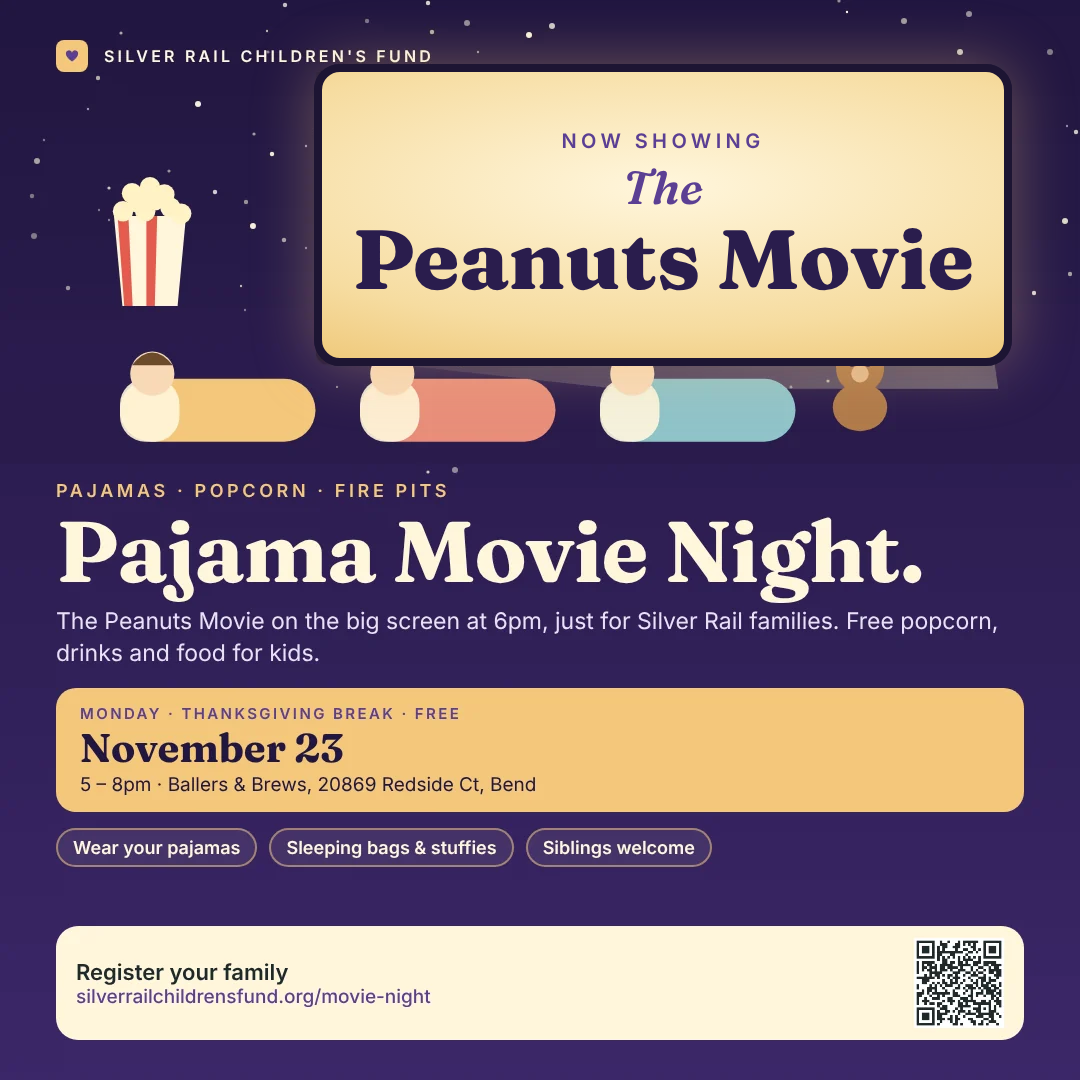
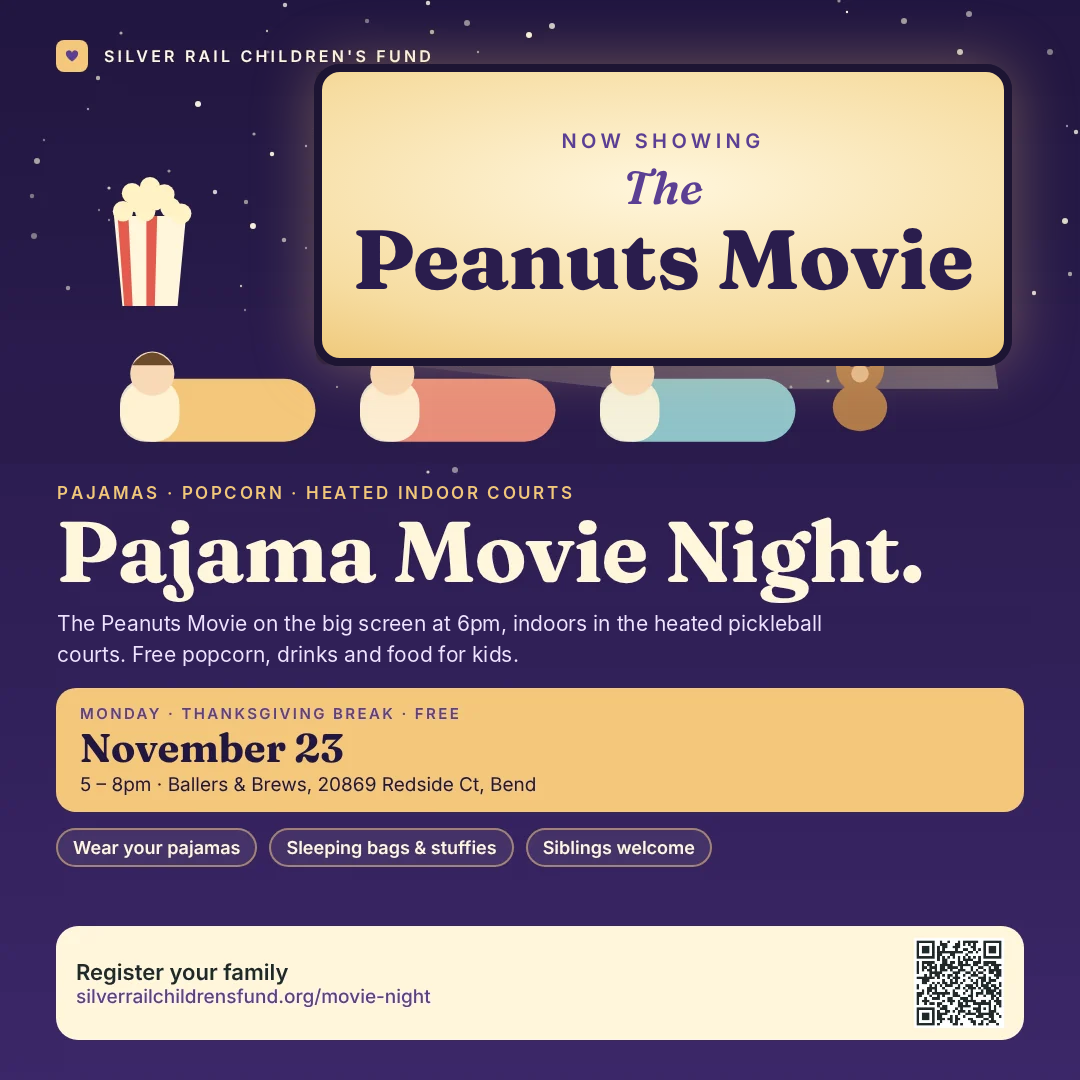
Movie night graphics: say indoors in the heated pickleball courts
Claude-Session: https://claude.ai/code/session_01H4F1UFKbNZ7C2QcD1zUB46

Changed region(s): [[0.0611, 0.55, 0.9167, 0.6111], [0.0611, 0.4278, 0.4278, 0.4583], [0.4583, 0.4278, 0.5194, 0.4583]]

diff --git a/movie-night.html b/movie-night.html
@@ -189,7 +189,7 @@ footer.sf .sf-legal a{color:var(--ink-2)}
 
 <section id="details">
   <div class="wrap">
-    <div class="photo"><img src="assets/movie-night-facebook-event.png?v=2" alt="Pajama Movie Night for Silver Rail families, Monday November 23, 5 to 8 pm at Ballers &amp; Brews, The Peanuts Movie at 6"></div>
+    <div class="photo"><img src="assets/movie-night-facebook-event.png?v=3" alt="Pajama Movie Night for Silver Rail families, Monday November 23, 5 to 8 pm at Ballers &amp; Brews, The Peanuts Movie at 6"></div>
     <h2>The details.</h2>
     <div class="sess" style="max-width:860px;grid-template-columns:repeat(auto-fit,minmax(240px,1fr))">
       <div class="card"><b>Mon, Nov 23</b><p>5 to 8 pm<br>Movie starts at 6 pm<br>Indoors in the heated pickleball courts<br>Ballers &amp; Brews<br>20869 Redside Ct, Bend</p></div>

diff --git a/parents.html b/parents.html
@@ -206,7 +206,7 @@ footer.sf .sf-legal a{color:var(--ink-2)}
 <section id="movie-night" style="padding:36px 0 0;border:0">
   <div class="wrap">
     <div class="event">
-      <img src="assets/movie-night-square.png?v=2" alt="Pajama Movie Night for Silver Rail families, Monday November 23 at Ballers &amp; Brews">
+      <img src="assets/movie-night-square.png?v=3" alt="Pajama Movie Night for Silver Rail families, Monday November 23 at Ballers &amp; Brews">
       <div>
         <div class="eyebrow">Monday, Nov 23 · 5–8 pm, movie at 6 · Ballers &amp; Brews, 20869 Redside Ct, Bend · free</div>
         <h2 style="margin-bottom:.3em">Pajama Movie Night.</h2>
